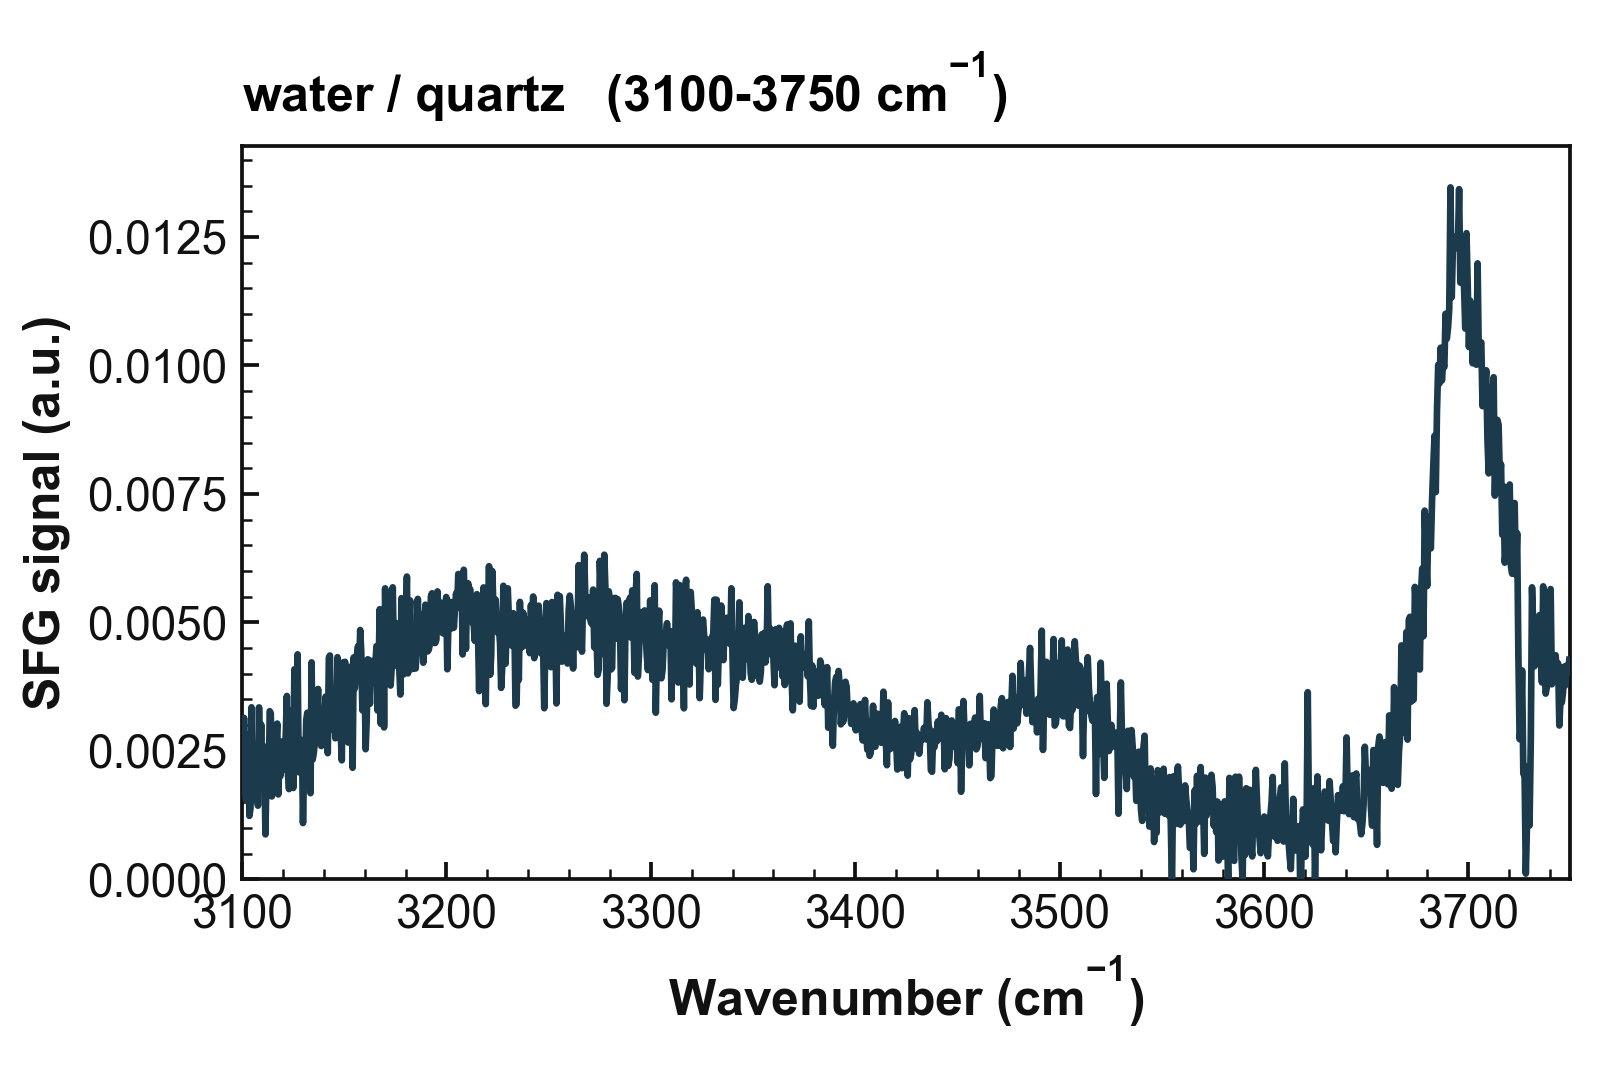
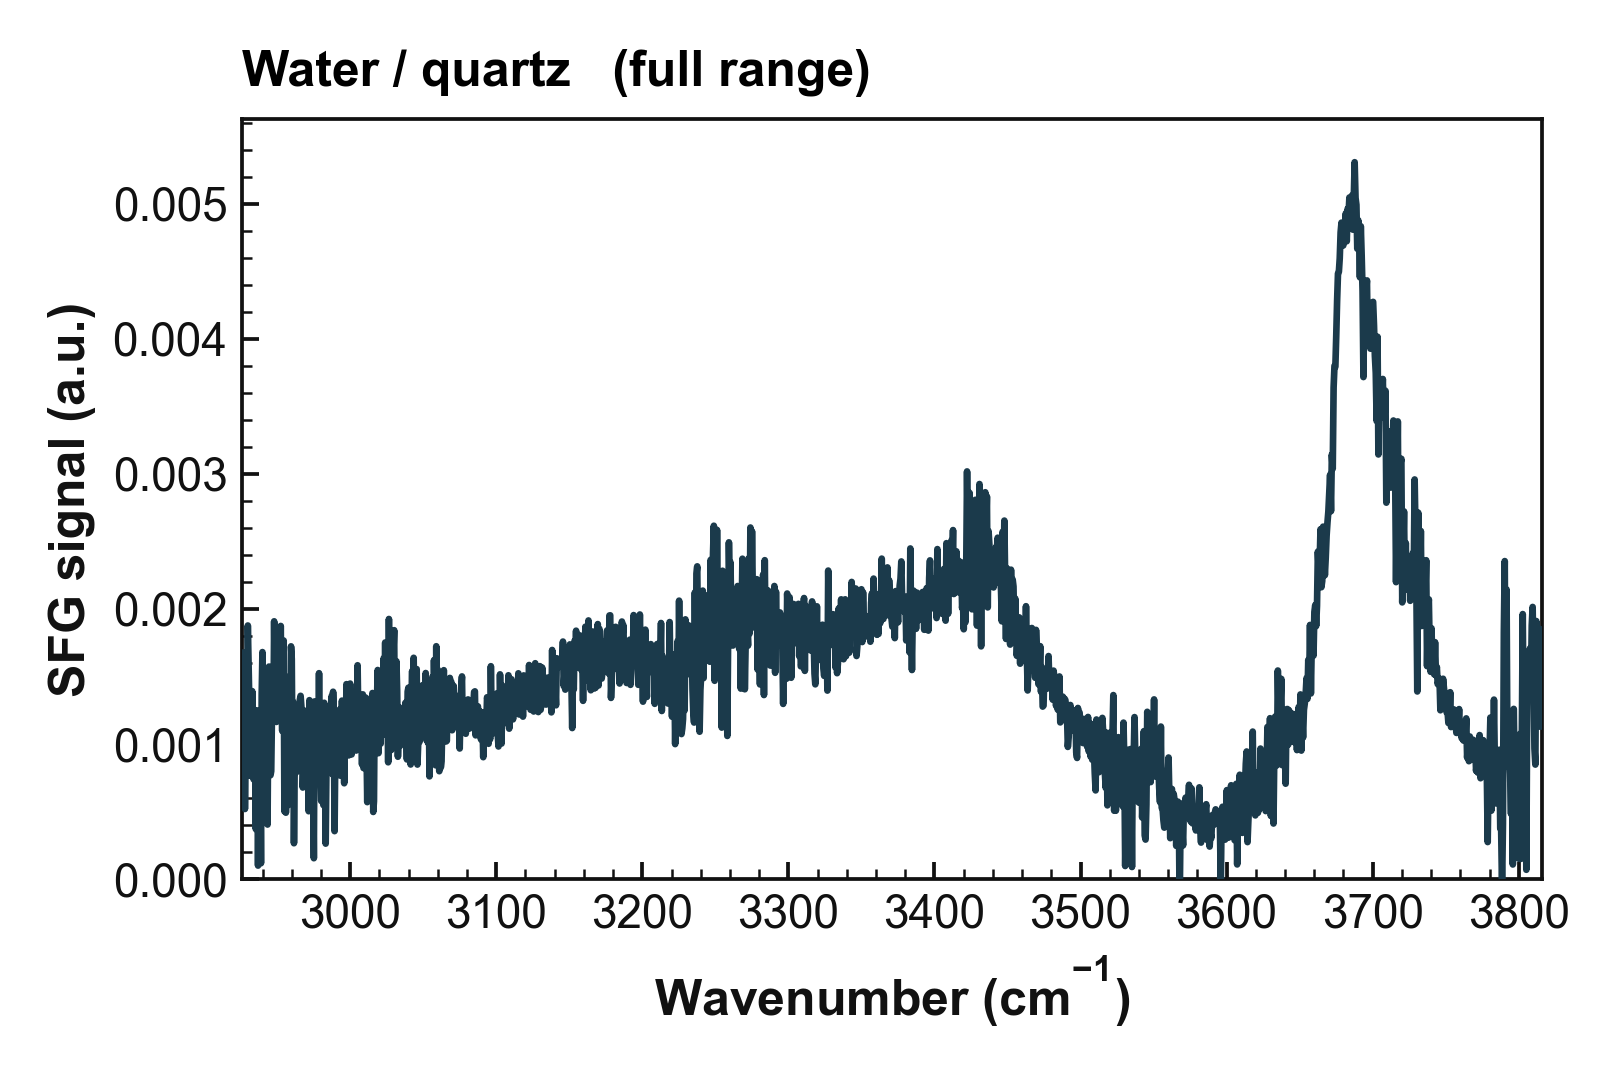
docs: README figure = 20260324 Water line chart (cosmic-removed)

diff --git a/README.md b/README.md
@@ -18,7 +18,7 @@ Read native `.ngs` instrument files or `.txt` exports · auto-detect reference &
 ---
 
 <p align="center">
-  <img src="docs/img/spectrum_example.png?v=2" width="560" alt="Example normalised SFG spectrum with scatter points and a smooth fit">
+  <img src="docs/img/spectrum_example.png?v=3" width="560" alt="Example normalised SFG spectrum with scatter points and a smooth fit">
 </p>
 
 <p align="center"><em>Example output — normalised water O–H stretch SFG spectrum (3100–3800 cm⁻¹), experimental scatter points with a Savitzky–Golay fit, journal-ready style.</em></p>

diff --git a/README.zh-CN.md b/README.zh-CN.md
@@ -18,7 +18,7 @@
 ---
 
 <p align="center">
-  <img src="docs/img/spectrum_example.png?v=2" width="560" alt="归一化 SFG 光谱示例：散点 + 平滑拟合">
+  <img src="docs/img/spectrum_example.png?v=3" width="560" alt="归一化 SFG 光谱示例：散点 + 平滑拟合">
 </p>
 
 <p align="center"><em>示例输出 —— 归一化水 O–H 拉伸 SFG 光谱（3100–3800 cm⁻¹），实验散点叠加 Savitzky–Golay 拟合，期刊发表风格。</em></p>